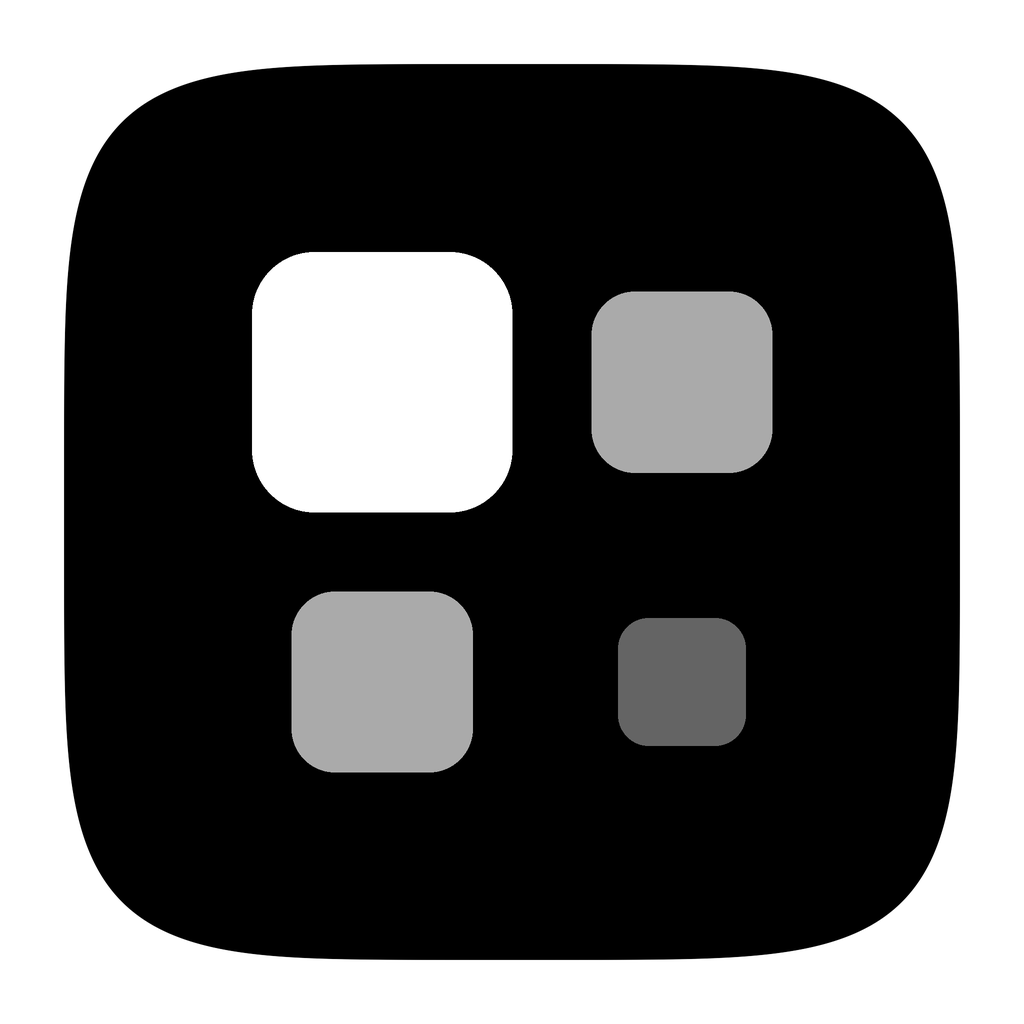
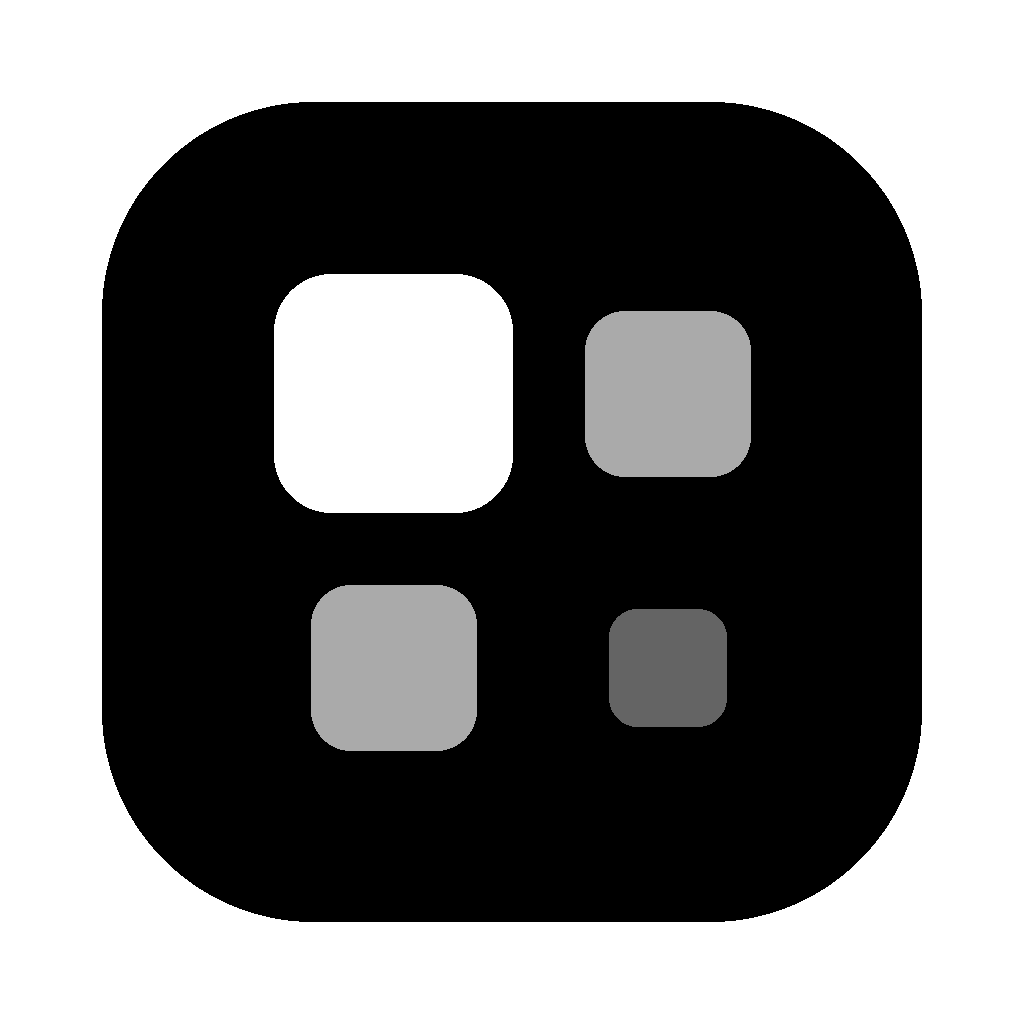
fix(workbench): 缩小 Dock 图标视觉尺寸以匹配系统比例
将应用图标内容区收至约 80% 并重生成静态图与动画帧；打包后不再用 setIcon(PNG) 覆盖 .icns，避免 Dock 里显得偏大。

diff --git a/packages/workbench/src/main/index.ts b/packages/workbench/src/main/index.ts
@@ -926,7 +926,10 @@ app.whenReady().then(async () => {
   installMediaPermissionHandler()
   traceStartup('install webview guards:done')
 
-  if (process.platform === 'darwin' && !appIcon.isEmpty()) {
+  // Packaged builds already ship a padded .icns via electron-builder — do not
+  // override with setIcon(PNG) or the Dock icon looks oversized vs other apps.
+  // Dev has no .icns, so set the padded PNG for a matching Dock preview.
+  if (process.platform === 'darwin' && !appIcon.isEmpty() && !app.isPackaged) {
     app.dock.setIcon(appIcon)
   }
 
@@ -937,7 +940,7 @@ app.whenReady().then(async () => {
   traceStartup('settings load:done')
 
   // macOS Dock frame animation — opt-in via Settings → General (default off).
-  if (process.platform === 'darwin' && !appIcon.isEmpty() && initial.iconAnimation) {
+  if (process.platform === 'darwin' && initial.iconAnimation) {
     startDockIconAnimation()
   }
 

diff --git a/packages/workbench/src/main/dock-icon-animation.ts b/packages/workbench/src/main/dock-icon-animation.ts
@@ -50,7 +50,12 @@ export function stopDockIconAnimation(restIcon?: NativeImage): void {
     clearInterval(timer)
     timer = null
   }
-  if (process.platform === 'darwin' && app.dock && restIcon && !restIcon.isEmpty()) {
+  if (process.platform !== 'darwin' || !app.dock) return
+  // Prefer the padded rest PNG (same artwork as the builder .icns).
+  if (restIcon && !restIcon.isEmpty()) {
     app.dock.setIcon(restIcon)
+    return
   }
+  // No rest image provided — clear the frame override so the bundle icon returns.
+  app.dock.setIcon(nativeImage.createEmpty())
 }

diff --git a/packages/workbench/scripts/generate-app-icon-frames.py b/packages/workbench/scripts/generate-app-icon-frames.py
@@ -1,5 +1,10 @@
 #!/usr/bin/env python3
-"""Generate dock-icon animation frames: largest ↔ smallest diagonal swap."""
+"""Generate dock-icon assets: rest PNG + largest ↔ smallest diagonal swap frames.
+
+macOS Dock expects ~80% artwork on a transparent canvas so the icon matches
+other apps optically. Cell layout is the app-icon.svg design, mapped into that
+content box.
+"""
 
 from __future__ import annotations
 
@@ -9,27 +14,30 @@ from PIL import Image, ImageDraw
 
 ROOT = Path(__file__).resolve().parents[1]
 OUT_DIR = ROOT / 'src/asset/img/app-icon-anim'
-CANVAS = 256  # dock cycles; macOS scales up
+REST_PNG = ROOT / 'src/asset/img/deepseek.png'
+
+# Dock / Finder optical size (Apple-style inset ≈ 80% of canvas).
+CONTENT = 0.80
 FRAME_COUNT = 24
 # Match in-app timing: hold ~18%, ease across, hold, ease back.
 HOLD = 0.18
 CROSS_END = 0.50
 HOLD_B_END = 0.68
 
-# Geometry from app-icon.svg, scaled to CANVAS / 1024.
-S = CANVAS / 1024.0
-TL = (382.0 * S, 382.0 * S)
-BR = (681.661 * S, 681.661 * S)
-LARGE = 260.0 * S
-MID = 180.678 * S
-SMALL = 127.797 * S
+# Original design plate was inset 64/1024 (87.5% fill). Cell centers/sizes are
+# expressed as fractions of that plate, then placed in the 80% content box.
+_PLATE0 = 896.0
+_TL_F = ((382.0 - 64.0) / _PLATE0, (382.0 - 64.0) / _PLATE0)
+_BR_F = ((681.661 - 64.0) / _PLATE0, (681.661 - 64.0) / _PLATE0)
+_LARGE_F = 260.0 / _PLATE0
+_MID_F = 180.678 / _PLATE0
+_SMALL_F = 127.797 / _PLATE0
 RX_RATIO = 0.24
 
 
 def ease(t: str | float) -> float:
-    """cubic-bezier(0.65, 0, 0.35, 1) approx via smoothstep on clipped t."""
+    """cubic-bezier(0.65, 0, 0.35, 1) approx via smootherstep on clipped t."""
     t = max(0.0, min(1.0, float(t)))
-    # smootherstep
     return t * t * t * (t * (t * 6.0 - 15.0) + 10.0)
 
 
@@ -49,22 +57,19 @@ def lerp(a: float, b: float, t: float) -> float:
     return a + (b - a) * t
 
 
-def lerp_color(
-    a: tuple[int, int, int], b: tuple[int, int, int], t: float
-) -> tuple[int, int, int]:
-    return (
-        int(round(lerp(a[0], b[0], t))),
-        int(round(lerp(a[1], b[1], t))),
-        int(round(lerp(a[2], b[2], t))),
-    )
+def layout(canvas: int) -> tuple[tuple[float, float], tuple[float, float], float, float, float, int, float]:
+    margin = canvas * (1.0 - CONTENT) / 2.0
+    plate = canvas * CONTENT
+    tl = (margin + _TL_F[0] * plate, margin + _TL_F[1] * plate)
+    br = (margin + _BR_F[0] * plate, margin + _BR_F[1] * plate)
+    return tl, br, _LARGE_F * plate, _MID_F * plate, _SMALL_F * plate, int(round(margin)), plate
 
 
-def draw_squircle(draw: ImageDraw.ImageDraw) -> None:
-    # Approximate the SVG squircle with a rounded rect matching deepseek.png.
-    margin = int(CANVAS * 0.0625)  # 64/1024
-    radius = int(CANVAS * 0.225)
+def draw_squircle(draw: ImageDraw.ImageDraw, canvas: int, margin: int, plate: float) -> None:
+    # Corner radius ≈ original SVG squircle feel on the content box.
+    radius = int(round(plate * 0.257))  # ~225/896 of plate
     draw.rounded_rectangle(
-        [margin, margin, CANVAS - margin - 1, CANVAS - margin - 1],
+        [margin, margin, canvas - margin - 1, canvas - margin - 1],
         radius=radius,
         fill=(0, 0, 0, 255),
     )
@@ -86,25 +91,23 @@ def draw_cell(
     )
 
 
-def render_frame(t: float) -> Image.Image:
-    img = Image.new('RGBA', (CANVAS, CANVAS), (0, 0, 0, 0))
+def render_frame(canvas: int, t: float) -> Image.Image:
+    tl, br, large, mid, small, margin, plate = layout(canvas)
+    img = Image.new('RGBA', (canvas, canvas), (0, 0, 0, 0))
     draw = ImageDraw.Draw(img)
-    draw_squircle(draw)
+    draw_squircle(draw, canvas, margin, plate)
 
-    # Static mid grays
-    draw_cell(draw, BR[0], TL[1], MID, (170, 170, 170))
-    draw_cell(draw, TL[0], BR[1], MID, (170, 170, 170))
+    draw_cell(draw, br[0], tl[1], mid, (170, 170, 170))
+    draw_cell(draw, tl[0], br[1], mid, (170, 170, 170))
 
-    # Pair A: white large at TL → shrinks to BR
-    ax = lerp(TL[0], BR[0], t)
-    ay = lerp(TL[1], BR[1], t)
-    asize = lerp(LARGE, SMALL, t)
+    ax = lerp(tl[0], br[0], t)
+    ay = lerp(tl[1], br[1], t)
+    asize = lerp(large, small, t)
     draw_cell(draw, ax, ay, asize, (255, 255, 255))
 
-    # Pair B: dark small at BR → grows to TL
-    bx = lerp(BR[0], TL[0], t)
-    by = lerp(BR[1], TL[1], t)
-    bsize = lerp(SMALL, LARGE, t)
+    bx = lerp(br[0], tl[0], t)
+    by = lerp(br[1], tl[1], t)
+    bsize = lerp(small, large, t)
     draw_cell(draw, bx, by, bsize, (100, 100, 100))
 
     return img
@@ -115,14 +118,18 @@ def main() -> None:
     for old in OUT_DIR.glob('frame-*.png'):
         old.unlink()
 
+    # Rest pose for Dock / electron-builder (1024 master).
+    rest = render_frame(1024, 0.0)
+    rest.save(REST_PNG, 'PNG')
+    print(f'Wrote {REST_PNG} (80% content box)')
+
     for i in range(FRAME_COUNT):
         t = progress(i)
         path = OUT_DIR / f'frame-{i:02d}.png'
-        render_frame(t).save(path, 'PNG')
+        render_frame(256, t).save(path, 'PNG')
         print(f'Wrote {path} (t={t:.3f})')
 
-    # Sanity: frame 0 should match rest pose closely
-    print(f'Done: {FRAME_COUNT} frames → {OUT_DIR}')
+    print(f'Done: rest PNG + {FRAME_COUNT} frames → {OUT_DIR}')
 
 
 if __name__ == '__main__':
